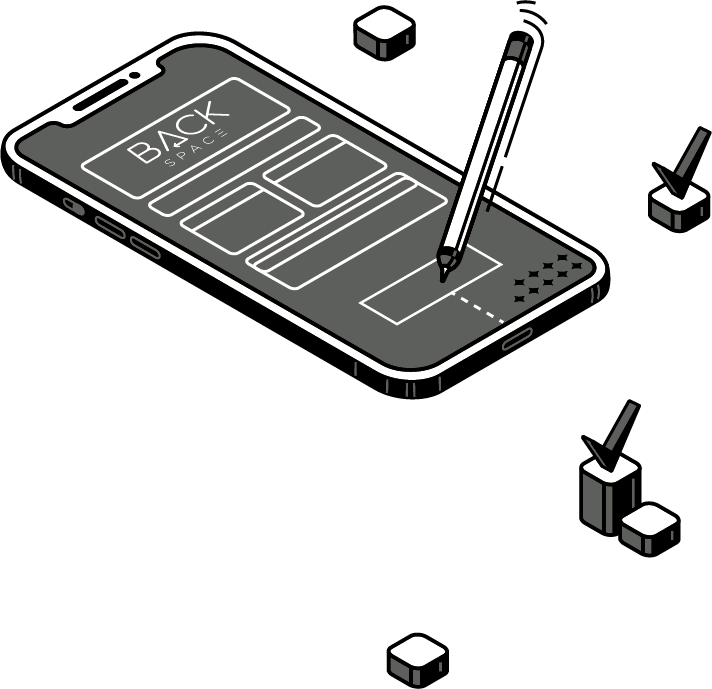
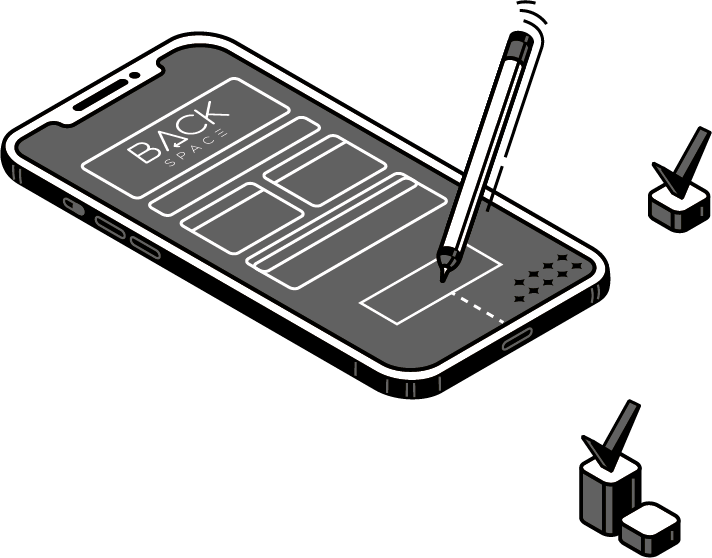
Cambios de imagenes y animaciones

diff --git a/index.html b/index.html
@@ -60,7 +60,7 @@
 
     <!-- Home -->
     <section class="home d-flex justify-content-center align-items-center">
-        <img src="images/Logo-Home.png" class="fadeIn wow" alt="Logo de backspace">
+        <img src="images/Logo-Home.gif" class="fadeIn wow" alt="Logo de backspace">
     </section>
 
     <!-- Quienes somos -->
@@ -121,11 +121,16 @@
         <div class="container my-5">
             <h2 class="text-center mb-4">¿POR QUÉ NOSOTROS?</h2>
             <div class="row my-5">
-                <div class="col-lg-5 px-5 order-1 order-lg-0 mt-5 mt-lg-0">
+                <div class="col-lg-5 px-md-5 px-lg-3 order-1 order-lg-0 mt-5 mt-lg-0">
+                    <div class="d-flex justify-content-between">
+                        <img src="images/Mision/Like.png" width="40" height="" class="wow pulse" data-wow-iteration="infinite" alt="">
+                        <img src="images/Mision/Estrella.png" width="40" height="" class="wow pulse" data-wow-iteration="infinite" data-wow-duration="" alt="">
+                    </div>
+
                     <img src="images/Why/Animar.png" class="animada wow pulse" data-wow-iteration="infinite" alt="">
                     <img src="images/Why/Porque-nosotros.png" class="img-fluid wow fadeIn" alt="">
                 </div>
-                <div class="col-lg-6 d-flex flex-column justify-content-center order-0 order-lg-1">
+                <div class="col-lg-6 d-flex flex-column justify-content-center order-0 order-lg-1 pl-lg-5">
                     <p>Amamos la Tecnología, la innovación y la vanguardia, nos actualizamos día a día para brindarte esa solución específica que tú necesitas en el ramo de Sistemas.</p>
                     <p> Somos ese grupo geek que siempre está en constante movimiento, actualizando nuestro conocimiento en tecnología para así brindarte las soluciones especificas a tu medida.</p>
                 </div>
@@ -154,8 +159,10 @@
                         <li class="wow fadeIn" data-wow-delay="5.5s">Pólizas de Servicio para Empresas</li>
                     </ul>
                 </div>
-                <div class="col-lg-4 d-flex justify-content-center">
+                <div class="col-lg-4 d-flex justify-content-center align-items-center">
+                    <img src="images/Servicios/Cuadro.png" class="cuadro-bottom bounce wow" data-wow-iteration="infinite" data-wow-duration="1500ms" alt="">
                     <img src="images/Servicios/Servicios.png" class="img-servicios wow fadeIn" alt="">
+                    <img src="images/Servicios/Cuadro.png" class="cuadro-top bounce wow" data-wow-iteration="infinite" data-wow-duration="1500ms" alt="">
                 </div>
             </div>
         </div>

diff --git a/css/style.css b/css/style.css
@@ -173,7 +173,7 @@ a:hover {
 }
 
 .home img {
-    width: 450px;
+    /* width: 550px; */
 }
 
 /* About */
@@ -290,7 +290,8 @@ a:hover {
 /* Why */
 .why,
 .clients {
-    background: #474a48;
+    /* background: #474a48; */
+    background: #606060;
     color: #ffffff;
 }
 
@@ -322,6 +323,20 @@ a:hover {
 }
 
 .services .img-servicios {
+    position: absolute;
+}
+
+.services .cuadro-bottom {
+    position: absolute;
+    bottom: 0;
+    left: 0;
+    width: 38px;
+}
+
+.services .cuadro-top {
+    width: 38px;
+    top: -75px;
+    left: 0;
     position: absolute;
 }
 
@@ -362,6 +377,12 @@ a:hover {
     font-size: 25px;
 }
 
+/* .partners h3 {
+    border: 20px solid red;
+    border-image-source: url(../images/Colaboradores/Flecha.png);
+    border-image-slice: 30;
+} */
+
 .partners a {
     font-size: 15px;
 }
@@ -376,6 +397,9 @@ a:hover {
     -webkit-animation: abajo 5s forwards infinite;
     border-right: 1px solid #000;
     border-bottom: 1px solid #000;
+    /* border: 20px solid red;
+    border-image-source: url(../images/Colaboradores/Flecha.png);
+    border-image-slice: 30; */
 }
 
 .partners div h3::before {
@@ -414,7 +438,7 @@ a:hover {
     100% {
         height: 85px;
         width: 80px;
-        border-bottom: 2px solid #000;
+        border-bottom: 1px solid #000;
     }
 
 }
@@ -575,8 +599,9 @@ footer a:hover {
     }
 
     .why img.animada {
-        top: -35px;
+        top: 25px;
         left: 135px;
+        width: 45px;
     }
 }
 
@@ -662,9 +687,9 @@ footer a:hover {
 
     .why .animada {
         width: 50px;
-        left: 210px;
+        left: 215px;
         position: absolute;
-        top: -30px;
+        top: 45px;
     }
 
     .partners h3 {
@@ -695,6 +720,10 @@ footer a:hover {
 
     .mision .estrella::before {
         width: 70px;
+    }
+
+    .services .cuadro-top {
+        top: 30px;
     }
 }
 
@@ -742,6 +771,11 @@ footer a:hover {
 
     .services .img-servicios {
         max-width: 90%;
+    }
+
+    .services .cuadro-top,
+    .services .cuadro-bottom {
+        width: 28px;
     }
 
     .mision h2.vision span,
